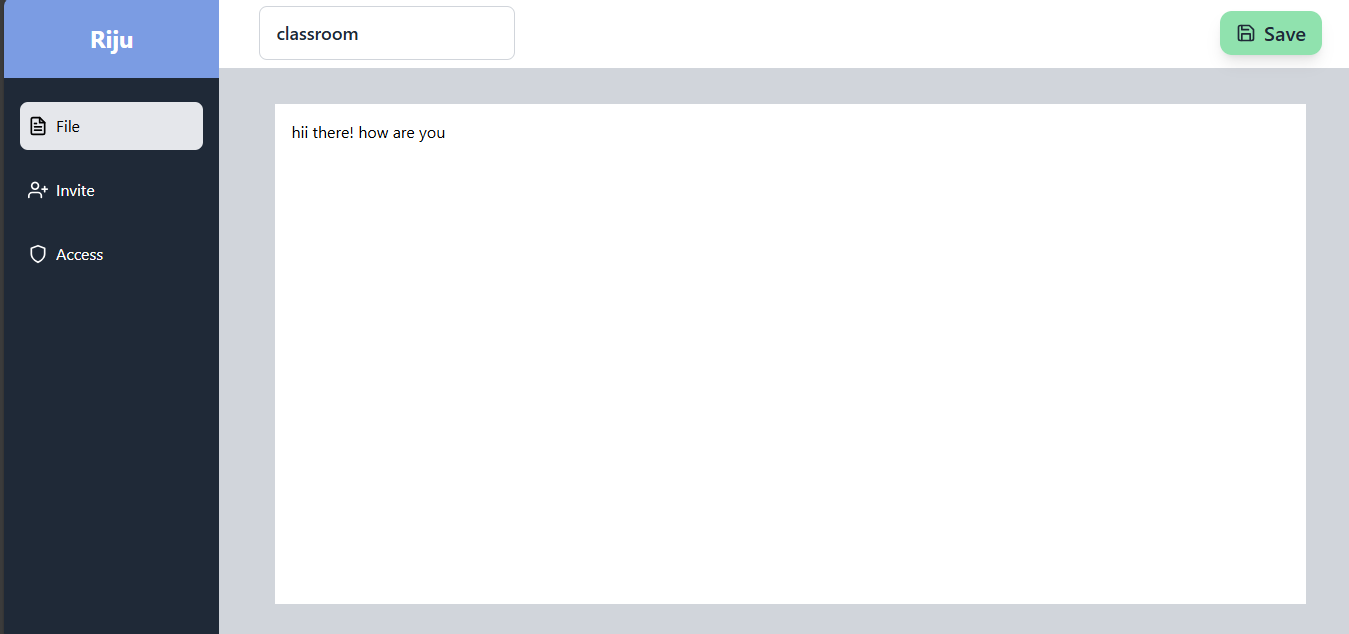
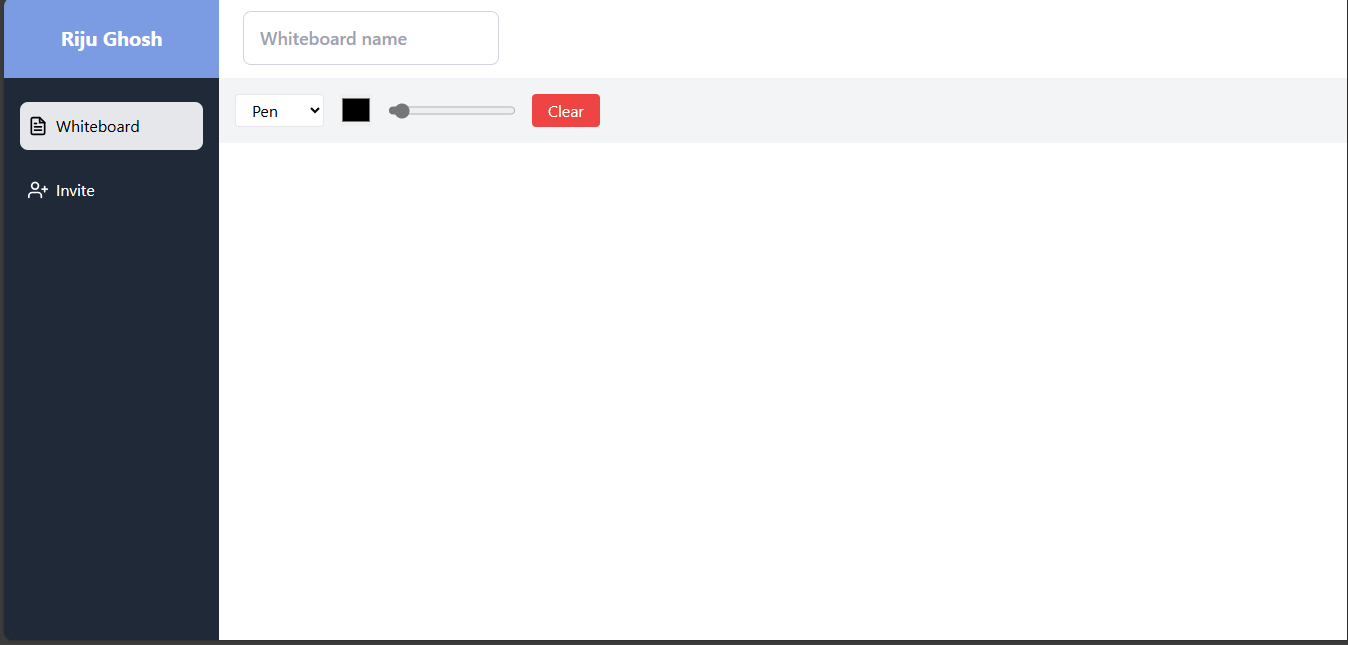
updated home page

diff --git a/client/src/pages/index/Index.jsx b/client/src/pages/index/Index.jsx
@@ -56,7 +56,7 @@ const Index = () => {
         </div>
 
         <p className='text-center text-gray-600 leading-7'>
-          Live Document App is your go-to solution for real-time document collaboration. Whether you're working on projects, writing reports, or brainstorming ideas with your team, our app provides the tools you need to stay connected and productive. With robust version control, document sharing, and live editing capabilities, it’s built for teamwork, no matter where your team is located.
+        Live Document App is your ultimate solution for real-time live canvas collaboration. Whether you're brainstorming ideas, sketching concepts, or sharing insights, our app empowers your team to connect and create seamlessly. With robust version control, intuitive sharing, and live editing, it's designed to make teamwork fluid and engaging, no matter where you are.
         </p>
       </div>
 
